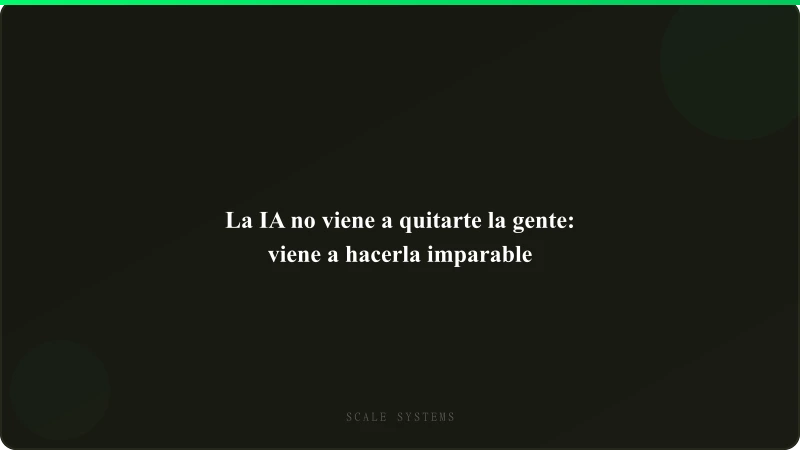
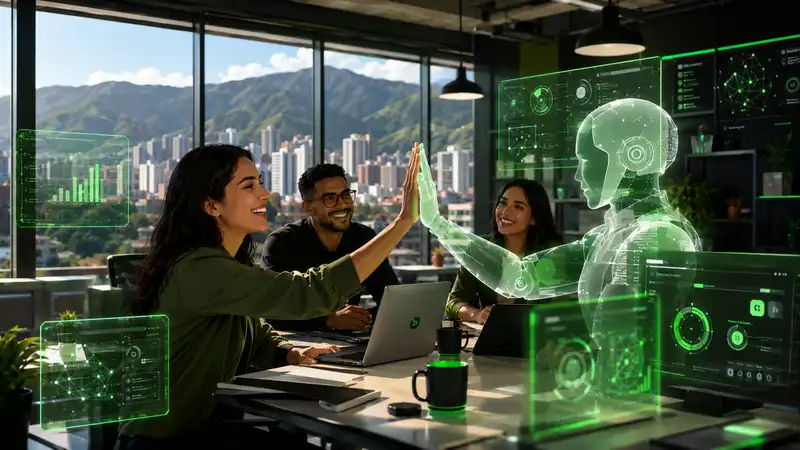
Add blog images and content

diff --git a/src/content/blog/mitos-y-verdades-de-la-ia.md b/src/content/blog/mitos-y-verdades-de-la-ia.md
@@ -1,0 +1,184 @@
+---
+title: "Mitos y verdades de la IA: lo que todo empresario venezolano necesita saber"
+description: "¿La IA reemplazará tu empleo? ¿Es solo una moda? ¿Sirve solo para grandes empresas? Separamos mitos de realidades con datos concretos y fuentes verificadas para tu negocio en Venezuela."
+date: "2026-07-08"
+tags: ["Inteligencia Artificial", "Mitos", "Automatización", "Venezuela", "Empresas"]
+readingTime: "9 min de lectura"
+thumbnail: "/blog/mitos-y-verdades-de-la-ia-800.webp"
+featuredImage: "/blog/mitos-y-verdades-de-la-ia-1200.webp"
+ogImage: "/blog/mitos-y-verdades-de-la-ia-og.webp"
+relatedService: "automatizacion"
+---
+
+*"La inteligencia artificial va a reemplazar tu trabajo."*
+*"Es solo una burbuja, como el metaverso."*
+*"Eso es para Google, no para mi negocio en Venezuela."*
+
+Si eres dueño de un negocio en Venezuela, probablemente has escuchado alguna de estas frases. Y si no sabes bien qué creer, no te culpo. El ruido alrededor de la IA es ensordecedor —hay gurús vendiendo humo, alarmistas sembrando miedo, y un montón de información contradictoria que paraliza en vez de ayudar.
+
+Pero hay un problema: mientras tú decides si la IA es real o no, tu competencia ya la está usando. Según una [encuesta de la UCAB sobre adopción de IA en Venezuela](https://efectococuyo.com/la-humanidad/empresas-se-adaptan-al-uso-de-la-ia-para-gestionar-su-talento-humano-revela-estudio-de-la-ucab/), solo el **11% de las empresas encuestadas** ha implementado IA en los últimos 12 meses. Es decir, el 89% está donde tú: viendo qué haces con esto. La pregunta no es si la IA es real, sino cuánto tiempo más puedes darte el lujo de no saber.
+
+Vamos a separar los mitos de las verdades de una vez por todas, con datos, fuentes reales y ejemplos que aplican a tu negocio en Venezuela.
+
+---
+
+## El costo de creer en mitos
+
+Antes de entrar en cada mito, entendamos una cosa: la desinformación no es inocente. Cada mes que pasas paralizado porque "la IA es una moda" o porque "va a quitar empleos" es un mes que tu competencia —la que sí está probando— aprovecha para adelantarse.
+
+En Venezuela, donde el contexto económico ya es suficientemente duro, **no puedes darte el lujo de tomar decisiones basadas en rumores**. La tecnología no es buena ni mala: es una herramienta. Y como cualquier herramienta, el resultado depende de cómo la uses.
+
+La [OCDE](https://www.oecd.org/en/topics/artificial-intelligence.html) tiene equipos dedicados exclusivamente a estudiar el impacto de la IA en la economía global. La [CEPAL](https://www.cepal.org/es/temas/inteligencia-artificial) publicó en enero de 2026 un informe sobre el *Impacto económico de la inteligencia artificial en América Latina*. El Banco Mundial, el FMI y gobiernos de todo el mundo están creando marcos regulatorios. ¿Todo esto para una "moda pasajera"? Lo dudo.
+
+Pasemos a los mitos.
+
+---
+
+## Mito 1: "La IA va a reemplazar todos los empleos"
+
+❌ **Mito**: La inteligencia artificial va a dejar a medio mundo sin trabajo, igual que pasó con la Revolución Industrial… o no.
+
+✅ **Realidad**: La IA automatiza *tareas*, no *empleos enteros*. Y las empresas que mejor la están usando no están despidiendo gente: están haciendo que su gente rinda el triple.
+
+Un estudio del FMI sobre IA y el futuro del trabajo estima que cerca del 40% de los empleos globales estarán expuestos a la IA, pero **expuestos no es lo mismo que reemplazados**. La historia lo confirma: la llegada de la electricidad no apagó a los humanos, las computadoras no terminaron con las oficinas, e internet no mató el comercio. Cada tecnología cambió los roles, no los eliminó.
+
+En Venezuela, donde la fuga de cerebros ha dejado a las empresas con equipos reducidos, la IA no es una amenaza: es el multiplicador que necesita tu equipo actual. Si todavía tienes dudas, nuestra guía sobre [cómo la IA potencia la productividad sin reemplazar a tu gente](/blog/ia-no-es-para-reducir-personal-es-para-potenciar-productividad) te explica exactamente esto.
+
+---
+
+## Mito 2: "La IA es una moda pasajera"
+
+❌ **Mito**: Es el nuevo hype tecnológico, como los NFTs o el metaverso. En dos años nadie se acordará.
+
+✅ **Realidad**: La inversión global en inteligencia artificial crece a un ritmo superior al 60% anual consecutivo. No es una startup de garage: gobiernos, bancos centrales y organismos multilaterales tienen equipos enteros dedicados a esto.
+
+La [OCDE](https://www.oecd.org/en/topics/artificial-intelligence.html) tiene un observatorio de políticas de IA que sigue las regulaciones de más de 70 países. La [CEPAL](https://www.cepal.org/es/temas/inteligencia-artificial) en América Latina la considera una de las transformaciones más significativas de nuestro tiempo. Empresas como Meta, Google, Microsoft y OpenAI invierten decenas de miles de millones de dólares al año en infraestructura de IA.
+
+No es una moda. Es un cambio estructural comparable a la llegada de internet. Y como con internet, los que entienden esto temprano tienen una ventaja que los demás no van a recuperar.
+
+Un dato concreto: el sector bancario en América Latina lidera la adopción de IA con un **47% de implementación**, según reportes de [Bloomberg Línea](https://www.bloomberglinea.com/tecnologia/la-ia-gana-terreno-en-los-negocios-venezolanos-pero-la-gobernanza-aun-va-detras/). Los bancos no hacen apuestas por modas pasajeras.
+
+---
+
+## Mito 3: "La IA solo sirve para empresas grandes"
+
+❌ **Mito**: Implementar IA es caro y complicado, eso es para Google, no para mi negocio.
+
+✅ **Realidad**: Con el stack tecnológico actual, puedes empezar a usar IA en tu negocio **sin pagar un dólar en infraestructura**. Herramientas como Gemini (API gratuita), Supabase (base de datos serverless con generoso free tier) y Vercel (hosting gratuito) permiten que cualquier negocio en Venezuela construya un prototipo funcional en cuestión de días.
+
+No estoy hablando de hipotéticos. En nuestra [guía de adopción de IA para empresas venezolanas](/blog/la-adopcion-de-ia-en-la-empresa-venezolana-por-donde-empezar) detallamos exactamente cómo empezar con un piloto de bajo costo que puede ser un chatbot en WhatsApp, un asistente de atención al cliente o un flujo de facturación automatizada.
+
+La verdad es que la IA es más accesible hoy que lo que fue tener un sitio web en 2005. Y si en ese entonces cualquiera podía tener una página, hoy cualquiera puede tener un agente de IA.
+
+---
+
+## Mito 4: "La IA alucina y no es confiable"
+
+❌ **Mito**: La inteligencia artificial inventa cosas, no se le puede creer nada.
+
+✅ **Realidad**: Sí, los modelos de lenguaje a veces alucinan. Es un hecho. Pero por eso **no se usan como autoridad final: se usan como herramientas de productividad con supervisión humana**.
+
+El concepto se llama *human-in-the-loop* (humano en el ciclo). La IA genera el primer borrador de un correo, un resumen, una respuesta; el humano lo revisa, lo ajusta y lo aprueba. Así es como funcionan los chatbots más efectivos hoy: el agente IA atiende el 80% de los casos simples, y si hay algo complejo o dudoso, lo escala a una persona.
+
+No le pidas a la IA que sea perfecta —es como pedirle a un martillo que no golpee tus dedos. El martillo es útil cuando sabes cómo usarlo. La IA idéntico.
+
+Para aplicaciones críticas (cálculos de nómina, facturación, datos financieros), la automatización no depende exclusivamente de modelos de lenguaje: se usan flujos deterministas + validación humana. Un enfoque bien diseñado reduce drásticamente los errores frente al proceso manual (donde el error humano es real y constante).
+
+---
+
+## Mito 5: "Implementar IA es carísimo y tarda meses"
+
+❌ **Mito**: Necesito un departamento de datos, un presupuesto de seis cifras y seis meses de implementación.
+
+✅ **Realidad**: Un piloto de IA bien enfocado puede estar listo en **una semana** con herramientas gratuitas.
+
+Los pasos son simples:
+1. Identifica **un proceso repetitivo** (responder WhatsApp, conciliar pagos, generar reportes).
+2. Busca una herramienta gratuita o de bajo costo (Gemini, ChatGPT, Claude, Copilot).
+3. Pruébala con datos reales en una tarde.
+4. Si funciona: escala. Si no: ajusta y prueba otra cosa.
+
+Ese es todo el ciclo. No necesitas contratar a un científico de datos ni comprar servidores dedicados. En nuestra guía de [5 procesos que toda empresa en Venezuela debe automatizar](/blog/5-procesos-que-toda-empresa-en-venezuela-debe-automatizar) encontrarás ejemplos concretos de tareas que cualquier negocio puede empezar a automatizar hoy mismo sin inversión inicial.
+
+Y ojo, los datos fríos respaldan esta tendencia. Según la [encuesta de la UCAB](https://efectococuyo.com/la-humanidad/empresas-se-adaptan-al-uso-de-la-ia-para-gestionar-su-talento-humano-revela-estudio-de-la-ucab/), las empresas venezolanas que han adoptado IA lo hicieron con equipos pequeños y presupuestos ajustados. No hay una correlación entre tamaño de empresa y éxito en la implementación.
+
+---
+
+## El panorama completo
+
+<svg width="100%" height="160" viewBox="0 0 760 160" xmlns="http://www.w3.org/2000/svg" style="background-color:#171810; border-radius:8px; margin:1.5em 0; border:1px solid #2a2c1f;">
+  <rect x="20" y="30" width="160" height="100" rx="8" fill="#1f2017" stroke="#2a2c1f" stroke-width="1.5"/>
+  <text x="100" y="65" font-family="sans-serif" font-size="28" font-weight="bold" fill="#03fa6e" text-anchor="middle" dominant-baseline="middle">11%</text>
+  <text x="100" y="100" font-family="sans-serif" font-size="13" fill="#63635d" text-anchor="middle" dominant-baseline="middle">Empresas en Vzla con IA</text>
+  <rect x="200" y="30" width="160" height="100" rx="8" fill="#1f2017" stroke="#2a2c1f" stroke-width="1.5"/>
+  <text x="280" y="65" font-family="sans-serif" font-size="28" font-weight="bold" fill="#03fa6e" text-anchor="middle" dominant-baseline="middle">47%</text>
+  <text x="280" y="100" font-family="sans-serif" font-size="13" fill="#63635d" text-anchor="middle" dominant-baseline="middle">Adopción en banca (LatAm)</text>
+  <rect x="380" y="30" width="160" height="100" rx="8" fill="#1f2017" stroke="#2a2c1f" stroke-width="1.5"/>
+  <text x="460" y="65" font-family="sans-serif" font-size="28" font-weight="bold" fill="#03fa6e" text-anchor="middle" dominant-baseline="middle">62%</text>
+  <text x="460" y="100" font-family="sans-serif" font-size="13" fill="#63635d" text-anchor="middle" dominant-baseline="middle">Crecimiento anual inversión IA</text>
+  <rect x="560" y="30" width="160" height="100" rx="8" fill="#1f2017" stroke="#2a2c1f" stroke-width="1.5"/>
+  <text x="640" y="65" font-family="sans-serif" font-size="28" font-weight="bold" fill="#f59e0b" text-anchor="middle" dominant-baseline="middle">73%</text>
+  <text x="640" y="100" font-family="sans-serif" font-size="13" fill="#63635d" text-anchor="middle" dominant-baseline="middle">Empresas que ya usan IA en LatAm</text>
+</svg>
+
+<svg width="100%" height="290" viewBox="0 0 580 290" xmlns="http://www.w3.org/2000/svg" style="background-color:#171810; border-radius:8px; margin:1.5em 0; border:1px solid #2a2c1f;">
+  <rect x="20" y="20" width="250" height="40" rx="8" fill="#1f2017" stroke="#03fa6e" stroke-width="1.5"/>
+  <text x="145" y="40" font-family="sans-serif" font-size="14" font-weight="bold" fill="#03fa6e" text-anchor="middle" dominant-baseline="middle">❌ MITO</text>
+  <rect x="310" y="20" width="250" height="40" rx="8" fill="#1f2017" stroke="#f59e0b" stroke-width="1.5"/>
+  <text x="435" y="40" font-family="sans-serif" font-size="14" font-weight="bold" fill="#f59e0b" text-anchor="middle" dominant-baseline="middle">✅ REALIDAD</text>
+  <circle cx="290" cy="40" r="16" fill="#1f2017" stroke="#2a2c1f" stroke-width="1.5"/>
+  <text x="290" y="41" font-family="sans-serif" font-size="11" font-weight="bold" fill="#63635d" text-anchor="middle" dominant-baseline="middle">VS</text>
+  <text x="30" y="93" font-family="sans-serif" font-size="13" fill="#a1a1aa" dominant-baseline="middle">Reemplaza todos los empleos</text>
+  <text x="320" y="93" font-family="sans-serif" font-size="13" fill="#a1a1aa" dominant-baseline="middle">Automatiza tareas, no personas</text>
+  <line x1="20" y1="109" x2="560" y2="109" stroke="#2a2c1f" stroke-width="0.5" opacity="0.5"/>
+  <text x="30" y="131" font-family="sans-serif" font-size="13" fill="#a1a1aa" dominant-baseline="middle">Es una moda pasajera</text>
+  <text x="320" y="131" font-family="sans-serif" font-size="13" fill="#a1a1aa" dominant-baseline="middle">Inversión global crece año a año</text>
+  <line x1="20" y1="147" x2="560" y2="147" stroke="#2a2c1f" stroke-width="0.5" opacity="0.5"/>
+  <text x="30" y="169" font-family="sans-serif" font-size="13" fill="#a1a1aa" dominant-baseline="middle">Solo sirve para grandes empresas</text>
+  <text x="320" y="169" font-family="sans-serif" font-size="13" fill="#a1a1aa" dominant-baseline="middle">Stack gratuito: empieza con $0</text>
+  <line x1="20" y1="185" x2="560" y2="185" stroke="#2a2c1f" stroke-width="0.5" opacity="0.5"/>
+  <text x="30" y="207" font-family="sans-serif" font-size="13" fill="#a1a1aa" dominant-baseline="middle">Alucina, no es confiable</text>
+  <text x="320" y="207" font-family="sans-serif" font-size="13" fill="#a1a1aa" dominant-baseline="middle">Requiere supervisión humana</text>
+  <line x1="20" y1="223" x2="560" y2="223" stroke="#2a2c1f" stroke-width="0.5" opacity="0.5"/>
+  <text x="30" y="245" font-family="sans-serif" font-size="13" fill="#a1a1aa" dominant-baseline="middle">Es carísima y tardada</text>
+  <text x="320" y="245" font-family="sans-serif" font-size="13" fill="#a1a1aa" dominant-baseline="middle">Piloto de 1 semana, gratis</text>
+</svg>
+
+---
+
+## Aplicación práctica: cómo separar mitos de realidades por ti mismo
+
+No necesitas creerme a mí ni a nadie. Aquí tienes tres pasos concretos para formar tu propio criterio:
+
+### Paso 1: Prueba antes de opinar
+Abre ChatGPT, Gemini o Claude hoy mismo. Dale una tarea real de tu negocio —redactar un correo, resumir un documento, responder una pregunta de un cliente— y evalúa el resultado con tus propios ojos. Diez minutos te darán más claridad que diez horas leyendo opiniones.
+
+### Paso 2: Busca datos, no rumores
+Cuando escuches una afirmación sobre IA, pregúntate: ¿quién lo dice? ¿Tiene datos? ¿La fuente es verificable? Acá tienes fuentes reales para empezar:
+- [CEPAL — Inteligencia Artificial en América Latina](https://www.cepal.org/es/temas/inteligencia-artificial)
+- [OCDE — Observatorio de Políticas de IA](https://www.oecd.org/en/topics/artificial-intelligence.html)
+- [Encuesta UCAB-Mercer sobre IA en Venezuela](https://efectococuyo.com/la-humanidad/empresas-se-adaptan-al-uso-de-la-ia-para-gestionar-su-talento-humano-revela-estudio-de-la-ucab/)
+- [Bloomberg Línea — IA en negocios venezolanos](https://www.bloomberglinea.com/tecnologia/la-ia-gana-terreno-en-los-negocios-venezolanos-pero-la-gobernanza-aun-va-detras/)
+
+### Paso 3: Empieza con un piloto concreto
+Elige una tarea repetitiva que odies hacer. Automatízala con una herramienta gratuita durante una semana. Mide cuánto tiempo ahorraste. Si funciona, escala. Si no, aprendiste algo gratis.
+
+---
+
+## Conclusión
+
+La inteligencia artificial no es magia ni es humo. Es una herramienta real que está transformando negocios en todo el mundo, incluyendo Venezuela. Los mitos alrededor de ella —que reemplaza empleos, que es una moda, que solo sirve para grandes empresas— no son más que ruido que te mantiene paralizado mientras otros avanzan.
+
+**Tres takeaways para llevar:**
+- La IA automatiza tareas, no personas. En Venezuela, donde el talento escasea, es un multiplicador, no una amenaza
+- No necesitas ser Google ni gastar miles de dólares: con herramientas gratuitas puedes tener un piloto funcional en una semana
+- La mejor fuente de información sobre IA eres tú mismo probándola —dedica 10 minutos hoy a experimentar
+
+En **Scale Systems** ayudamos a empresas venezolanas a separar los mitos de las realidades de la IA. Diseñamos pilotos concretos para que descubras por ti mismo lo que esta tecnología puede hacer por tu negocio, sin compromisos ni humo.
+
+**¿Listo para dejar los mitos atrás y empezar a probar?** [Agenda una consultoría gratuita con nuestro equipo](/#contacto) y te ayudamos a dar el primer paso real.
+
+---
+
+> **Prompt para imagen destacada (DALL-E / Stable Diffusion):**
+> A Venezuelan business owner standing at a crossroads, one path labeled with myths (robot replacing humans, dollar signs, confusion) shown in dark red tones, the other path labeled with truth (human and AI collaborating, growth charts, green glowing interface) in bright green (#03fa6e), dark (#171810) background, cinematic lighting, photorealistic, 4k quality, split composition, hopeful atmosphere --ar 16:9